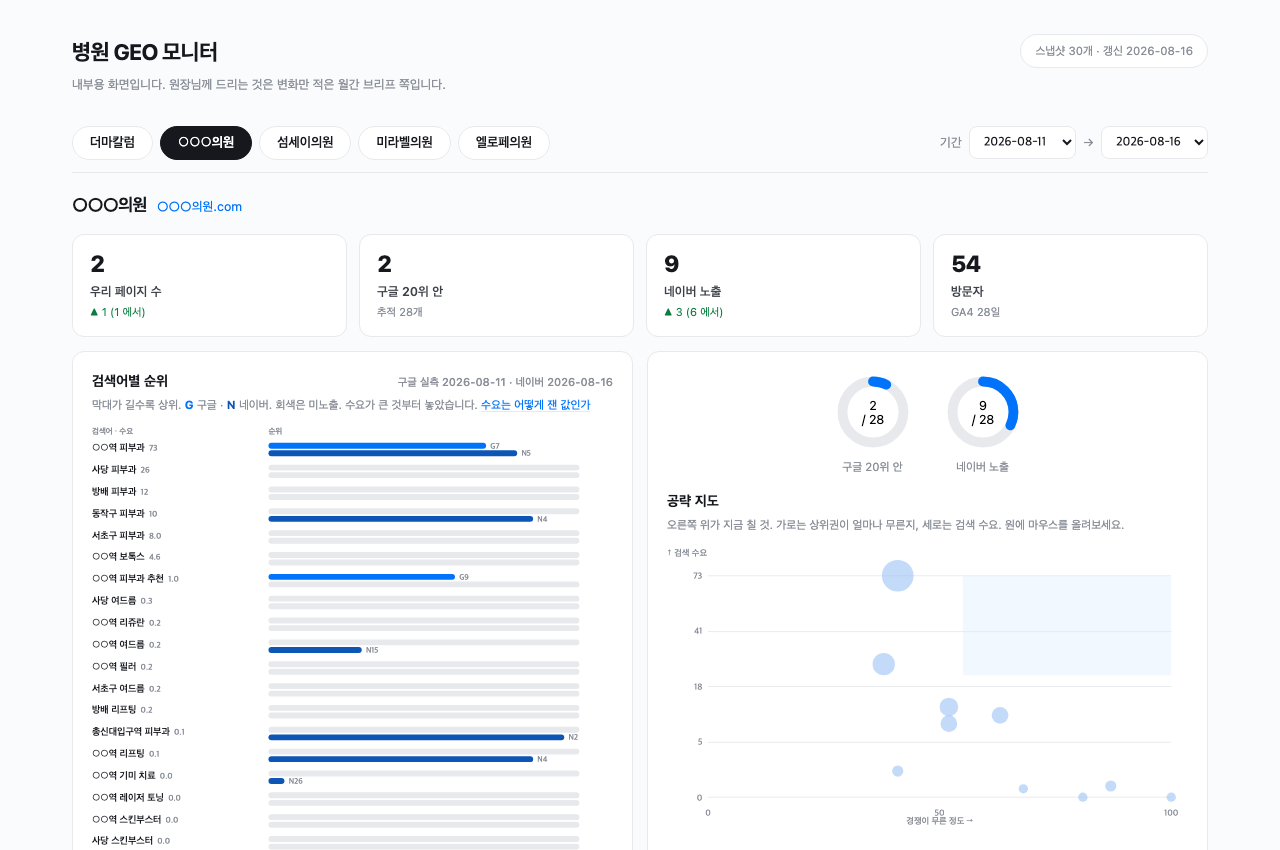
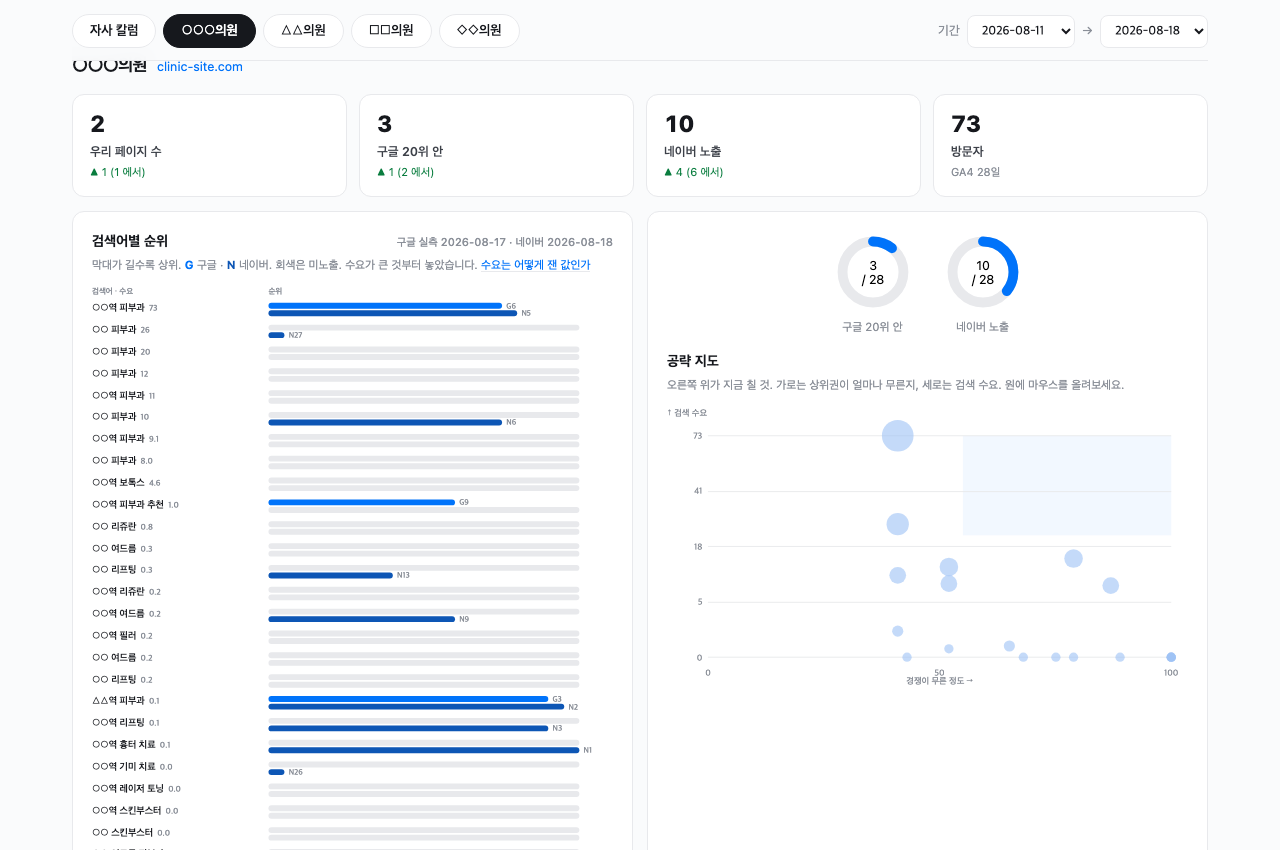
트리 하이라이트 인터스티셜 · 모니터 완전 마스킹 · 네이버 강조 (96장)
- '이제 채울 칸 넷' 신설: 회색 트리에 ①전환율 ②재진 ③방문당
  시술 수 ④시술 믹스만 블루 하이라이트, 신환 유입은 '앞에서 봄 ✓'.
  이후 인박스 → 리콜 → 계절 키워드 → 수익성 → AARRR 순으로 정리
  (대시보드를 AARRR 앞으로 이동)
- AARRR 브릿지: '방금 본 네 칸을 퍼널로 다시 묶으면'
- GEO 모니터 캡처 재촬영: 고객사명 전부 기호화(○○○ · △△ ·
  □□ · ◇◇ · 자사 칼럼), 퓨니코드 도메인 · 지역명(이수역 등)까지
  치환 — 관측 기록 · 사례 순위 두 슬라이드 동시 해결
- 시작 상태 스냅샷: 네이버 카드만 그린 테두리 강조, 나머지 4개
  회색 톤

diff --git a/index.html b/index.html
@@ -1762,6 +1762,41 @@
     <p class="note">접수 체크 → 월 1회 집계 · "모름"도 기록 · 첫 접점과 확인 채널을 나누면 어디에 쓸지가 달라짐</p>
   </section>
 
+  <section class="slide content">
+    <span class="eyebrow accent">남은 칸</span>
+    <h2>이제 채울 칸 넷</h2>
+    <p class="rsub">유입은 봤으니, 나머지는 도구 화면으로 빠르게 봅니다</p>
+    <div style="flex:1;display:flex;align-items:center">
+    <svg viewBox="0 0 1140 300" style="width:100%;height:auto;font-family:inherit">
+      <g fill="none" stroke="#dfe4ec" stroke-width="1.4">
+        <path d="M570 58 V80 M300 80 H840 M300 80 V100 M840 80 V100"/>
+        <path d="M300 156 V176 M160 176 H440 M160 176 V196 M440 176 V196"/>
+        <path d="M840 156 V176 M700 176 H980 M700 176 V196 M980 176 V196"/>
+        <path d="M160 252 V268"/>
+      </g>
+      <rect x="500" y="16" width="140" height="42" rx="9" fill="#eceef2"/>
+      <text x="570" y="42" text-anchor="middle" font-size="15" font-weight="600" fill="#8a919c">매출</text>
+      <rect x="220" y="100" width="160" height="56" rx="9" fill="#f4f5f7" stroke="#e2e5ea"/>
+      <text x="300" y="133" text-anchor="middle" font-size="14" font-weight="600" fill="#8a919c">환자 수</text>
+      <rect x="760" y="100" width="160" height="56" rx="9" fill="#f4f5f7" stroke="#e2e5ea"/>
+      <text x="840" y="133" text-anchor="middle" font-size="14" font-weight="600" fill="#8a919c">객단가</text>
+      <rect x="90" y="196" width="140" height="56" rx="9" fill="#f4f5f7" stroke="#e2e5ea"/>
+      <text x="160" y="222" text-anchor="middle" font-size="13.5" font-weight="600" fill="#8a919c">신환 유입</text>
+      <text x="160" y="240" text-anchor="middle" font-size="10.5" fill="#a9b1bd">앞에서 봄 ✓</text>
+      <rect x="88" y="266" width="144" height="30" rx="8" fill="#eef4fd" stroke="#246beb" stroke-width="1.5"/>
+      <text x="160" y="286" text-anchor="middle" font-size="12.5" font-weight="600" fill="#1d4fa8">① 전환율</text>
+      <rect x="370" y="196" width="140" height="56" rx="9" fill="#eef4fd" stroke="#246beb" stroke-width="1.5"/>
+      <text x="440" y="229" text-anchor="middle" font-size="13.5" font-weight="600" fill="#1d4fa8">② 재진</text>
+      <rect x="630" y="196" width="140" height="56" rx="9" fill="#eef4fd" stroke="#246beb" stroke-width="1.5"/>
+      <text x="700" y="222" text-anchor="middle" font-size="13.5" font-weight="600" fill="#1d4fa8">③ 방문당 시술 수</text>
+      <text x="700" y="240" text-anchor="middle" font-size="10.5" fill="#5b8de0">패키지 · 계절</text>
+      <rect x="910" y="196" width="140" height="56" rx="9" fill="#eef4fd" stroke="#246beb" stroke-width="1.5"/>
+      <text x="980" y="222" text-anchor="middle" font-size="13.5" font-weight="600" fill="#1d4fa8">④ 시술 믹스</text>
+      <text x="980" y="240" text-anchor="middle" font-size="10.5" fill="#5b8de0">원가 · 순이익</text>
+    </svg>
+    </div>
+  </section>
+
   <section class="slide content tint">
     <span class="eyebrow accent">트리 칸 · 전환율</span>
     <h2>문의에서 예약까지 · 응대가 만드는 전환</h2>
@@ -1812,20 +1847,6 @@
   </section>
 
   <section class="slide content">
-    <span class="eyebrow accent">AARRR</span>
-    <h2>그로스 마케팅 틀로 본 오늘의 범위</h2>
-    <p class="rsub">유입부터 소개까지, 오늘 다룬 것들의 자리</p>
-    <div class="secmap" style="grid-template-columns:repeat(5,1fr)">
-      <div class="smq"><div class="sn">A</div><div class="st">유입<span style="display:block;font-size:12px;letter-spacing:.06em;color:var(--ink-faint);font-weight:500;margin-top:2px">Acquisition</span></div><div class="sd">검색 · 지도 · AI 노출<br><b>질문 세트 관측 · GEO</b></div></div>
-      <div class="smq"><div class="sn">A</div><div class="st">첫 경험<span style="display:block;font-size:12px;letter-spacing:.06em;color:var(--ink-faint);font-weight:500;margin-top:2px">Activation</span></div><div class="sd">홈페이지 · 콘텐츠 → 문의 · 예약<br><b>GA4 · 예약 페이지 도달</b></div></div>
-      <div class="smq"><div class="sn">R</div><div class="st">재방문<span style="display:block;font-size:12px;letter-spacing:.06em;color:var(--ink-faint);font-weight:500;margin-top:2px">Retention</span></div><div class="sd">시술 주기 관리<br><b>리콜 알림 · CRM</b></div></div>
-      <div class="smq"><div class="sn">R</div><div class="st">소개<span style="display:block;font-size:12px;letter-spacing:.06em;color:var(--ink-faint);font-weight:500;margin-top:2px">Referral</span></div><div class="sd">리뷰 · 지인 추천 · 커뮤니티<br><b>리뷰 응대 원칙 · 답변</b></div></div>
-      <div class="smq"><div class="sn">R</div><div class="st">매출<span style="display:block;font-size:12px;letter-spacing:.06em;color:var(--ink-faint);font-weight:500;margin-top:2px">Revenue</span></div><div class="sd">시술별 매출 · 순이익<br><b>문진 × 병원 장부</b></div></div>
-    </div>
-    <p class="note">지표 트리가 "무엇을 키울지"라면, 이 다섯 칸은 "어느 단계를 고칠지" · 같은 데이터로 둘 다 봅니다</p>
-  </section>
-
-  <section class="slide content">
     <span class="eyebrow accent">트리 칸 · 시술 평균 단가 · 믹스</span>
     <h2>시술별 매출 1위 ≠ 순이익 1위</h2>
     <p class="rsub">앞의 지표 트리를 화면으로 구성한 예 · 예시 데이터</p>
@@ -1836,6 +1857,20 @@
         <figure><img src="assets/work/dash-revenue.png" alt="매출 분석 대시보드" /></figure></div>
     </div>
     <p class="note">시술별 원가를 저장해 두면 매출이 아니라 순이익으로 믹스를 판단하게 됨 · 엑셀 피벗으로 시작해도 구조는 같음</p>
+  </section>
+
+  <section class="slide content">
+    <span class="eyebrow accent">AARRR</span>
+    <h2>그로스 마케팅 틀로 본 오늘의 범위</h2>
+    <p class="rsub">방금 본 네 칸을 퍼널로 다시 묶으면 이렇게 됩니다 · 유입부터 소개까지</p>
+    <div class="secmap" style="grid-template-columns:repeat(5,1fr)">
+      <div class="smq"><div class="sn">A</div><div class="st">유입<span style="display:block;font-size:12px;letter-spacing:.06em;color:var(--ink-faint);font-weight:500;margin-top:2px">Acquisition</span></div><div class="sd">검색 · 지도 · AI 노출<br><b>질문 세트 관측 · GEO</b></div></div>
+      <div class="smq"><div class="sn">A</div><div class="st">첫 경험<span style="display:block;font-size:12px;letter-spacing:.06em;color:var(--ink-faint);font-weight:500;margin-top:2px">Activation</span></div><div class="sd">홈페이지 · 콘텐츠 → 문의 · 예약<br><b>GA4 · 예약 페이지 도달</b></div></div>
+      <div class="smq"><div class="sn">R</div><div class="st">재방문<span style="display:block;font-size:12px;letter-spacing:.06em;color:var(--ink-faint);font-weight:500;margin-top:2px">Retention</span></div><div class="sd">시술 주기 관리<br><b>리콜 알림 · CRM</b></div></div>
+      <div class="smq"><div class="sn">R</div><div class="st">소개<span style="display:block;font-size:12px;letter-spacing:.06em;color:var(--ink-faint);font-weight:500;margin-top:2px">Referral</span></div><div class="sd">리뷰 · 지인 추천 · 커뮤니티<br><b>리뷰 응대 원칙 · 답변</b></div></div>
+      <div class="smq"><div class="sn">R</div><div class="st">매출<span style="display:block;font-size:12px;letter-spacing:.06em;color:var(--ink-faint);font-weight:500;margin-top:2px">Revenue</span></div><div class="sd">시술별 매출 · 순이익<br><b>문진 × 병원 장부</b></div></div>
+    </div>
+    <p class="note">지표 트리가 "무엇을 키울지"라면, 이 다섯 칸은 "어느 단계를 고칠지" · 같은 데이터로 둘 다 봅니다</p>
   </section>
 
   <section class="slide content">
@@ -1885,25 +1920,25 @@
     <h2>네이버 블로그만 있던 병원</h2>
     <p class="rsub">개원 후 여러 해가 지난 병원 · 논문 · 학회 · 방송 이력이 충분한 원장 · 계약 시점의 채널 상태입니다</p>
     <div class="cardrow" style="grid-template-columns:repeat(5,1fr);margin-top:16px">
-      <div class="icard" style="text-align:center">
+      <div class="icard" style="text-align:center;border:1.5px solid #03C75A;background:#f7fdf9">
         <img src="assets/logos/naver.svg" alt="네이버" style="width:30px;height:30px" />
         <h4 style="margin:10px 0 4px">네이버 블로그</h4>
         <div style="display:inline-block;font-size:11.5px;font-weight:600;background:#dce7fa;color:#1d4fa8;border-radius:20px;padding:3px 11px">운영 중</div>
         <p style="margin-top:8px">지역 키워드 글 위주<br>원장 기준은 안 보임</p>
       </div>
-      <div class="icard" style="text-align:center">
+      <div class="icard" style="text-align:center;background:#fafbfc;opacity:.75">
         <svg viewBox="0 0 24 24" style="width:30px;height:30px;fill:none;stroke:#16324f;stroke-width:1.7"><rect x="3" y="4" width="18" height="14" rx="2"/><path d="M3 9h18M8 21h8"/></svg>
         <h4 style="margin:10px 0 4px">홈페이지</h4>
         <div style="display:inline-block;font-size:11.5px;font-weight:600;background:#eceef2;color:#6b7380;border-radius:20px;padding:3px 11px">있지만 방치</div>
         <p style="margin-top:8px">측정 도구 미설치<br>원장 이력은 로그인 뒤</p>
       </div>
-      <div class="icard" style="text-align:center">
+      <div class="icard" style="text-align:center;background:#fafbfc;opacity:.75">
         <img src="assets/logos/google.svg" alt="구글" style="width:30px;height:30px" />
         <h4 style="margin:10px 0 4px">구글 검색</h4>
         <div style="display:inline-block;font-size:11.5px;font-weight:600;background:#eceef2;color:#6b7380;border-radius:20px;padding:3px 11px">찾기 어려움</div>
         <p style="margin-top:8px">색인 일부 누락<br>블로그 글은 차단 정책상 없음</p>
       </div>
-      <div class="icard" style="text-align:center">
+      <div class="icard" style="text-align:center;background:#fafbfc;opacity:.75">
         <div style="display:flex;gap:7px;justify-content:center">
           <img src="assets/logos/openai-gray.svg" style="width:22px;height:22px" alt="ChatGPT" />
           <img src="assets/logos/googlegemini-gray.svg" style="width:22px;height:22px" alt="Gemini" />
@@ -1913,7 +1948,7 @@
         <div style="display:inline-block;font-size:11.5px;font-weight:600;background:#eceef2;color:#6b7380;border-radius:20px;padding:3px 11px">언급 없음</div>
         <p style="margin-top:8px">인용할 원문이<br>구글 쪽에 없음</p>
       </div>
-      <div class="icard" style="text-align:center">
+      <div class="icard" style="text-align:center;background:#fafbfc;opacity:.75">
         <svg viewBox="0 0 24 24" style="width:30px;height:30px;fill:none;stroke:#16324f;stroke-width:1.7"><circle cx="12" cy="12" r="9"/><path d="M3 12h18M12 3c2.8 2.6 2.8 15.4 0 18M12 3c-2.8 2.6-2.8 15.4 0 18"/></svg>
         <h4 style="margin:10px 0 4px">영문 사이트</h4>
         <div style="display:inline-block;font-size:11.5px;font-weight:600;background:#eceef2;color:#6b7380;border-radius:20px;padding:3px 11px">대행사 범용</div>
